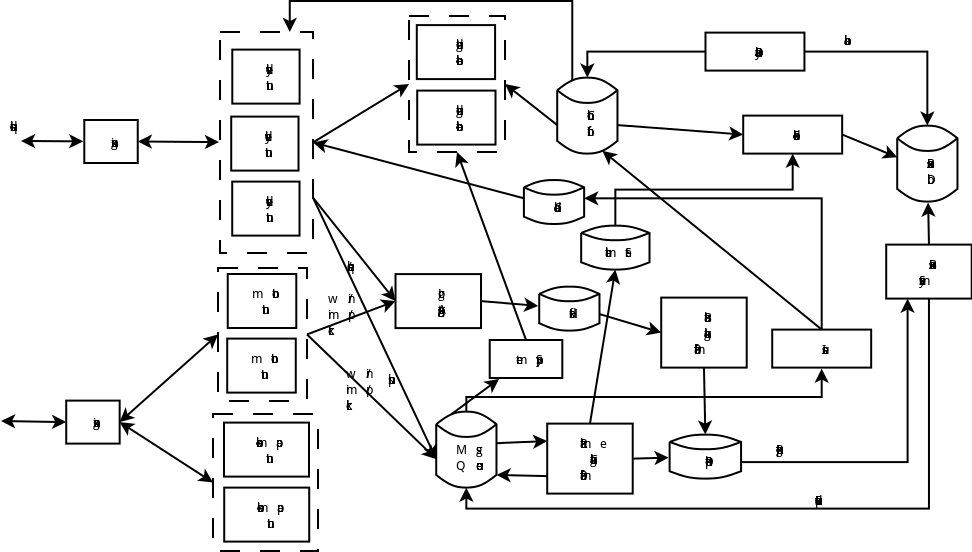
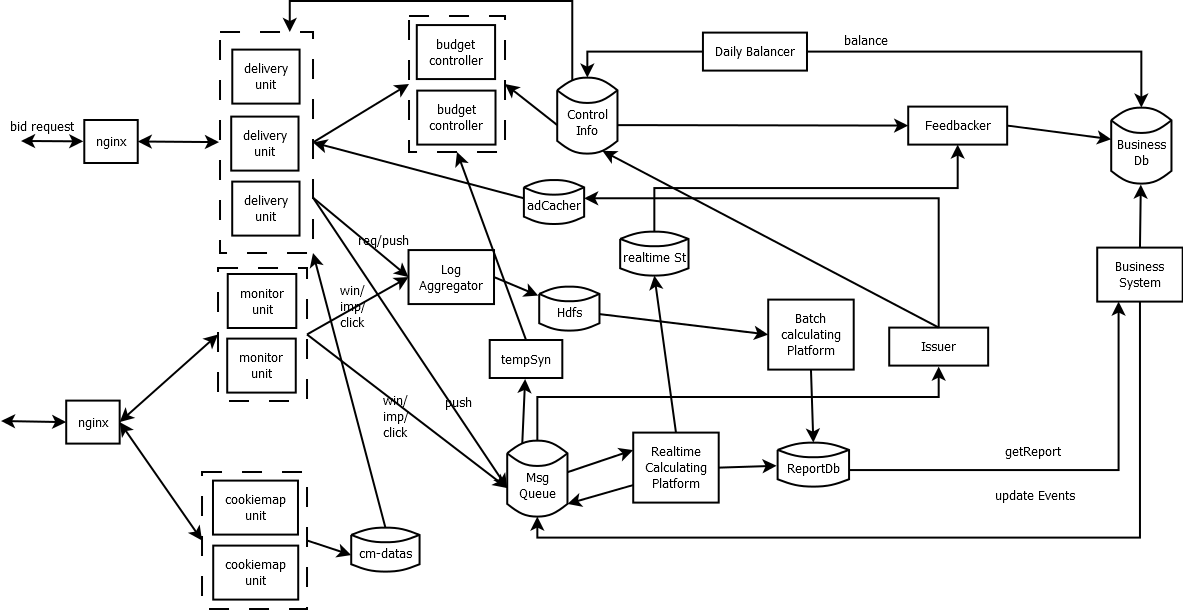
update architecture

Changed region(s): [[0.0, 0.0, 1.0, 1.0], [0.1543, 0.6775, 0.1852, 0.7083], [0.1235, 0.6159, 0.1543, 0.6467]]

diff --git a/ad/DSP_整体架构.MD b/ad/DSP_整体架构.MD
@@ -5,7 +5,7 @@
 ![架构图](attachments/DSP_entire_architecture.png)
 
 ### Delivery Unit
-投放单元，通过Nginx负载接入竞价流量，竞价请求为长连接。
+投放单元，通过Nginx负载接入竞价流量，竞价请求为长连接。加入zookeeper集群管理。
 1. 处理流程
 流量适配、用户识别、地域识别、流量过滤及限流、人群查询、广告筛选、频次控制、点击率预估、价格预估、预算控制、广告Rank，竞价拼包、响应，记录日志。
 2. 外部请求
@@ -17,7 +17,14 @@
 * 预算控制 -- 请求预算控制器判别当前的广告是否可投
 以上请求均会产生IO等待，即可以在这些点上做异步处理。
 
-3. 框架
+3. 框架/工作单元
+动态配置管理线程、请求接入线程、请求处理线程、广告缓存线程、预算控制器监听线程构成。
+
+4. zookeeper中的集群数据结构
+```
+|---deliveries
+     |--- 01 (数据：{ip:"", port:"", id:""})
+```
 
 ### Budget Controller
 预算控制器，为投放单元提供实时预算控制。
@@ -32,7 +39,7 @@
 2. 外部请求
 无。
 
-3. 框架
+3. 框架/工作单元
 三种消息接入线程分别监听和接收端口数据，通过三个队列发送给顺序处理线程，并由一个缓存线程将数据刷入磁盘，防止因意外丢失数据。
 
 4. 控制逻辑
@@ -41,16 +48,84 @@
 * 收到控制信息中的同步真实曝光数据，如果加的是“二重锁定”，且时长超过2分钟，则同步真实曝光数据到真实push数据以及“伪push量上”，如果此时都达到限额，则标识为“绝对锁定”，否则解锁。
 * 收到刷数据至磁盘的消息，则将全量数据拷贝推送给刷磁盘线程。
 
-5. 部署
+5. 输入/输出
+* 控制消息
+	tcp承载，二进制数据，格式为：请求类型(1byte)、请求时间(4bytes)、请求ID(4bytes)、请求源类型(1byte)、请求源标识(4bytes)、数据长度(2bytes）、请求数据（不定，看具体请求）、校验值(4bytes，暂不使用)
+| 类型值 | 类型说明       |   请求数据| 说明    |
+| ---    | ---            | ---       | ---     |
+| 1      | 广告主状态更新 |   广告主ID(4bytes)、状态(1byte)        |    无响应     |
+| 2      | 广告主余额更新 |   广告主ID(4bytes)、余额(4byte，值*10000，整数)        |    无响应      |
+| 3      | 计划状态更新   |   计划ID(4bytes)、状态(1byte)       |         |
+| 4      | 计划预算更新   |   计划ID(4bytes)、总预算(4byte，值*10000，整数)、天预算(4byte，值*10000，整数)        |   无响应       |
+| 5      | 同步数据请求   |       空           | 即将锁定的计划的真实数据刷到伪数据上；无响应  |
+| 6      | 数据刷入磁盘   |    空              |  将变化的数据更新到磁盘；无响应    |
+| 7      | 系统可投全局开关 |  状态(1byte,0或1) | 系统是否可投放                    |
+
+* 预算判别请求
+   tcp承载，二进制数据，格式为：请求类型(1byte)、请求时间(4bytes)、请求ID(4bytes)、请求源类型(1byte)、请求源标识(4bytes)、个数(1byte)、[计划ID(4bytes)、出价价格(4byte，值*10000)]
+   响应数据格式：响应类型(1byte)、响应时间(4bytes)、响应ID(4bytes)、响应源类型(1byte)、响应源标识(4bytes)、个数(1byte)、[计划ID(4bytes)、允许出价(1byte，0或者1)]
+
+* 推送/消耗消息
+	tcp承载，二进制数据，格式为：请求类型(1byte)、请求时间(4bytes)、请求ID(4bytes)、请求源类型(1byte)、请求源标识(4bytes)、预算控制器id(1byte)、个数(1byte)、[广告主ID(4bytes)、计划ID(4bytes)、push价格(4bytes，*10000)、曝光价格(4bytes，*10000)]
+
+
+以上数据接口暂时自行解析，以后可采用thrift或protobuf来实现。
+
+6. 部署
 可多个实例部署，投放单元查询请求可均衡负载到这些控制器，并将推送与控制器ID关联，发生真实推送前，将推送信息发送给对应控制器，且在实时流统计时，也将来自该控制器的推送和曝光数据发送到对应的控制器上。
 
 下发器根据控制器个数，平均分配预算给控制器。
 
-6. 问题
-可能会出现有的控制器提前消耗完预算，而有的无法消耗完，可以在投放单元使用Round Robin均衡方法。
+7. 问题
+* 可能会出现有的控制器提前消耗完预算，而有的无法消耗完，在投放单元使用Round Robin均衡方法可尽可能消除影响。
+* 如果升级，则需要先全局停广告后，等待5分钟左右；
+* 如果某个控制器出现异常，则向该控制器传递数据的模块需要感知，并且将数据缓存等下次启动；或者将数据放入消息队列中等待启动时消费。
+
+### Budget Distributor
+预算分配器，根据业务系统的数据变化，分配预算给预算控制器。
+
+1. 处理流程
+监听预算控制器的变化（zookeeper），如果发生变化，则读取缓存中的广告主和广告计划信息，如账户余额、预算，根据当前的预算控制器进行平均分配。
+监听业务数据变化事件（kafka），变更相应计划/广告主在预算控制器的分配。
+
+2. 框架/服务单元
+监视预算控制器的线程，以及监听业务事件线程。
+
+3. 输入/输出
+3.1 输入
+* 监听zookeeper上的`/budgetors`路径。
+	-- 即当前预算控制器的活跃列表
+* 监听读取kafka的topic`businessEvent`
+	-- 广告主余额变更：{cmd:sponsor_balance_update, sponsor_id:1333, newBalance:30.0}
+	-- 广告主状态变更：{cmd:sponsor_status_update, sponsor_id:1333, newStatus: 1}
+	-- 计划预算变更：{cmd:plan_budget_update, plan_id:4444, newDayBudget: 33344, newBudget:44444}
+	-- 计划状态变更：{cmd:plan_status_update, plan_id:4444, newStatus: 0}
+* 读取缓存（redis）上的计划、广告主信息
+	-- 今日投放的广告主集合，sponsors:{day} 
+	-- 今日投放的广告计划集合，plans:{day}
+	-- 计划状态：plan:{plan_id}，包括属性有，status、total_budget、day_budget
+	-- 广告主状态：sponsor:{sponsor_id}，包括的属性有：status、balance
+
+4. 部署
+	单节点部署，性能上可以保证。
+
+### tempSync
+临时同步器，实现小batch数据同步到BudgetController，降低接收端的压力。
 
 ### Monitor Unit
-监控单元
+监控单元，监控数据项有：bid win, ad impression, ad click。使用zookeeper做集群管理。
+1. 处理流程
+根据URL中的特征，识别请求平台类型，获取平台处理器，处理请求，记录日志，发送日志。
+
+2. 外部请求
+* 发送日志 -- 发送至诸如kafka的消息队列。
+
+3. 框架/服务单元
+
+4. 控制逻辑
+
+5. 部署
+
 
 ### Cookemap Unit
 cookiemap单元
@@ -58,8 +133,7 @@ cookiemap单元
 ### Log Aggregator
 日志聚合器
 
-### tempSync
-临时同步器，实现小batch数据同步到BudgetController，降低接收端的压力。
+
 
 ### Issuer
 业务数据下发器，连接投放系统和业务系统。

diff --git a/android/android studio使用.MD b/android/android studio使用.MD
@@ -1,0 +1,44 @@
+# android studio使用
+
+***set_daemon@126.com 2017-09-15***
+
+
+
+## 获取
+
+官网下载https://developer.android.com/studio/index.html。
+
+
+
+
+
+##安装配置
+
+
+
+##使用
+
+
+
+
+
+##问题
+
+#### Gradle sync failed
+
+###### 原因：gradle官网加载太慢，换阿里云镜像
+
+
+
+
+
+## 参考
+
+http://www.androiddevtools.cn/ 
+
+http://stormzhang.com/android/2014/07/07/learn-android-from-rookie/  ANDROID学习之路
+
+https://developer.android.com/studio/install.html
+
+http://services.gradle.org/distributions/ gradle官网下载
+
